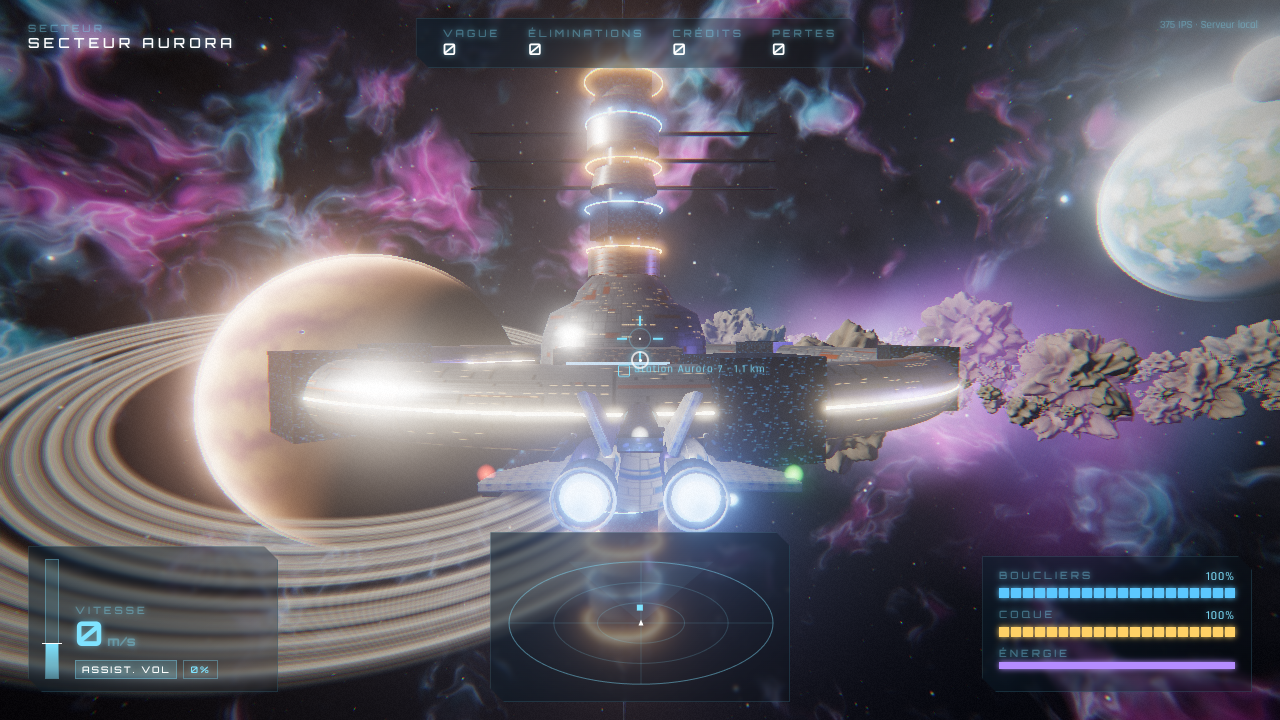
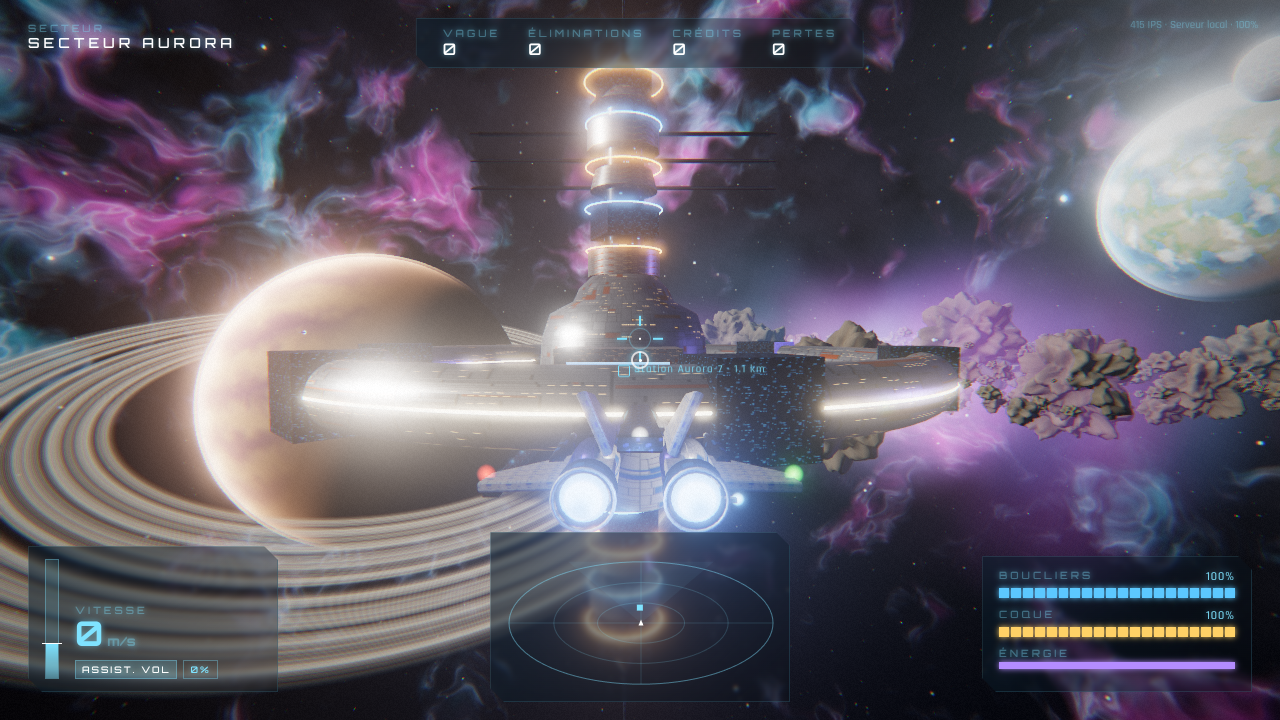
Optimisations de rendu et touches AZERTY
- Fusion des pièces statiques par matériau (vaisseaux, station) : 253 → 161
  appels de dessin
- Astéroïdes allégés : 1,76 M → 0,86 M triangles par image
- Antialiasing réel : la cible HDR du post-traitement est multi-échantillonnée
  (l'antialiasing du canvas ne s'appliquait pas avec l'EffectComposer)
- Résolution dynamique : baisse automatique sous 45 IPS, remonte au-dessus de 58
- HUD : le DOM n'est réécrit que lorsque son contenu change
- Menu : les touches affichées suivent la disposition du clavier (AZERTY)

Claude-Session: https://claude.ai/code/session_016XCWbfMdZ3mfa5DSJWimQo

diff --git a/src/client/Game.ts b/src/client/Game.ts
@@ -67,12 +67,18 @@ export class Game {
   running = false;
   private lastMe: InterpolatedShip | null = null;
   private damageFx = 0;
+  private maxPixelRatio: number;
+  private pixelRatio: number;
+  private perfTimer = 0;
+  private perfFrames = 0;
   /** Exposed for automated smoke tests. */
   readonly debug = { frames: 0, ships: 0, bolts: 0, events: 0, explosions: 0 };
 
   constructor(canvas: HTMLCanvasElement, private transport: Transport, private opts: GameOptions) {
-    this.renderer = new THREE.WebGLRenderer({ canvas, antialias: opts.quality === 'high', powerPreference: 'high-performance' });
-    this.renderer.setPixelRatio(Math.min(window.devicePixelRatio, opts.quality === 'high' ? 1.5 : 1));
+    this.renderer = new THREE.WebGLRenderer({ canvas, antialias: false, powerPreference: 'high-performance' });
+    this.maxPixelRatio = Math.min(window.devicePixelRatio, opts.quality === 'high' ? 1.5 : 1);
+    this.pixelRatio = this.maxPixelRatio;
+    this.renderer.setPixelRatio(this.pixelRatio);
     this.renderer.setSize(window.innerWidth, window.innerHeight, false);
     this.renderer.toneMapping = THREE.ACESFilmicToneMapping;
     this.renderer.toneMappingExposure = 1.05;
@@ -80,7 +86,7 @@ export class Game {
 
     this.cam = new ChaseCamera(window.innerWidth / window.innerHeight);
     this.scene.add(this.cam.camera);
-    this.post = new PostFX(this.renderer, this.scene, this.cam.camera);
+    this.post = new PostFX(this.renderer, this.scene, this.cam.camera, opts.quality === 'high' ? 4 : 0);
     this.input = new InputManager(canvas);
     this.scene.add(this.lasers.group, this.effects.group, this.dust.lines);
 
@@ -92,8 +98,9 @@ export class Game {
   private resize() {
     const w = window.innerWidth;
     const h = window.innerHeight;
+    this.renderer.setPixelRatio(this.pixelRatio);
     this.renderer.setSize(w, h, false);
-    this.post.setSize(w, h);
+    this.post.setSize(w, h, this.pixelRatio);
     this.cam.camera.aspect = w / h;
     this.cam.camera.updateProjectionMatrix();
     this.effects.setPixelScale(h * this.renderer.getPixelRatio(), this.cam.camera.fov);
@@ -274,13 +281,40 @@ export class Game {
         stationPos: this.zone.station.position,
         stationName: this.zone.station.name,
         fps: this.fps,
-        net: this.transport.label,
+        net: `${this.transport.label} · ${Math.round(this.pixelRatio * 100)}%`,
       },
       dt,
     );
     this.damageFx = Math.max(0, this.damageFx - dt * 2);
+    this.adaptResolution(dt);
     this.debug.ships = ships.size;
     this.post.render(this.time, this.damageFx);
+  }
+
+  /**
+   * Dynamic resolution: every 2 s, lower the render scale when the frame rate
+   * stays under 45 FPS and raise it again above 58 FPS.
+   */
+  private adaptResolution(dt: number) {
+    if (!this.running) return;
+    this.perfTimer += dt;
+    this.perfFrames++;
+    if (this.perfTimer < 2) return;
+    const fps = this.perfFrames / this.perfTimer;
+    this.perfTimer = 0;
+    this.perfFrames = 0;
+    let next = this.pixelRatio;
+    if (fps < 45) next = Math.max(0.6, this.pixelRatio * 0.85);
+    else if (fps > 58) next = Math.min(this.maxPixelRatio, this.pixelRatio * 1.1);
+    if (Math.abs(next - this.pixelRatio) > 0.02) {
+      this.pixelRatio = next;
+      this.resize();
+    }
+  }
+
+  /** Current render scale (for the HUD / diagnostics). */
+  get renderScale() {
+    return this.pixelRatio;
   }
 
   private handleEvent(e: SimEvent, time: number) {

diff --git a/src/client/hud/Hud.ts b/src/client/hud/Hud.ts
@@ -68,6 +68,14 @@ export class Hud {
   private hitTimer = 0;
   private damage = 0;
   private shieldFx = 0;
+  private cache = new Map<HTMLElement, string>();
+
+  /** Writes innerHTML only when it changed (avoids re-layout every frame). */
+  private html(el: HTMLElement, value: string) {
+    if (this.cache.get(el) === value) return;
+    this.cache.set(el, value);
+    el.innerHTML = value;
+  }
 
   constructor() {
     this.root = el('div', '', document.body) as HTMLDivElement;
@@ -200,12 +208,12 @@ export class Hud {
     const H = window.innerHeight;
     const pt = { x: 0, y: 0, front: true };
     const me = f.me;
-    this.fpsEl.textContent = `${f.fps.toFixed(0)} IPS · ${f.net}`;
-    this.topbar.innerHTML =
+    this.html(this.fpsEl, `${f.fps.toFixed(0)} IPS · ${f.net}`);
+    this.html(this.topbar,
       `<div><div class="label">Vague</div><div class="v">${f.wave}</div></div>` +
       `<div><div class="label">Éliminations</div><div class="v">${f.stats.kills}</div></div>` +
       `<div><div class="label">Crédits</div><div class="v">${f.stats.credits.toLocaleString('fr-FR')}</div></div>` +
-      `<div><div class="label">Pertes</div><div class="v">${f.stats.deaths}</div></div>`;
+      `<div><div class="label">Pertes</div><div class="v">${f.stats.deaths}</div></div>`);
 
     this.death.classList.toggle('show', !me);
     if (!me) {
@@ -254,10 +262,10 @@ export class Hud {
     const thr = (f.input.throttle + 0.4) / 1.4;
     this.throttleFill.style.height = `${(me.snap.boosting ? 1 : thr) * 100}%`;
     this.throttleBox.classList.toggle('boost', me.snap.boosting);
-    this.chips.innerHTML =
+    this.html(this.chips,
       `<span class="chip ${f.input.flightAssist ? 'on' : 'off'}">${f.input.flightAssist ? 'ASSIST. VOL' : 'NEWTONIEN'}</span>` +
       (me.snap.boosting ? '<span class="chip boost">BOOST</span>' : '') +
-      `<span class="chip">${(f.input.throttle * 100).toFixed(0)}%</span>`;
+      `<span class="chip">${(f.input.throttle * 100).toFixed(0)}%</span>`);
 
     // Status panel
     const sFrac = me.snap.shield / cls.shield;
@@ -323,9 +331,9 @@ export class Hud {
         this.bracket.classList.toggle('friendly', !hostile);
         this.bracket.style.width = this.bracket.style.height = `${size}px`;
         this.bracket.style.transform = `translate(${pt.x - size / 2}px, ${pt.y - size / 2}px)`;
-        this.bracketInfo.innerHTML =
+        this.html(this.bracketInfo,
           `<b>${hostile ? 'HOSTILE' : 'ALLIÉ'} · ${tcls.label.toUpperCase()}</b>${target.snap.name} — ${dist < 1000 ? dist.toFixed(0) + ' m' : (dist / 1000).toFixed(2) + ' km'}` +
-          `<div class="bars"><div class="bar s"><i style="transform:scaleX(${target.snap.shield / tcls.shield})"></i></div><div class="bar h"><i style="transform:scaleX(${target.snap.hull / tcls.hull})"></i></div></div>`;
+          `<div class="bars"><div class="bar s"><i style="transform:scaleX(${target.snap.shield / tcls.shield})"></i></div><div class="bar h"><i style="transform:scaleX(${target.snap.hull / tcls.hull})"></i></div></div>`);
       } else {
         // Edge arrow pointing toward the off-screen target.
         _w.copy(target.position).applyMatrix4(f.camera.matrixWorldInverse);

diff --git a/src/client/render/ShipModels.ts b/src/client/render/ShipModels.ts
@@ -1,5 +1,6 @@
 import * as THREE from 'three';
 import type { ShipClassId } from '../../shared/sim/types';
+import { mergeByMaterial } from './merge';
 import { makeHullTextures, makeRadialTexture } from './textures';
 
 export interface ShipModel {
@@ -15,6 +16,7 @@ export interface ShipModel {
 interface Paint {
   hull: THREE.MeshStandardMaterial;
   dark: THREE.MeshStandardMaterial;
+  darkDouble: THREE.MeshStandardMaterial;
   glass: THREE.MeshPhysicalMaterial;
   glow: THREE.MeshBasicMaterial;
 }
@@ -29,6 +31,7 @@ function paint(key: string, base: string, accent: string, glowColor: THREE.Color
   const p: Paint = {
     hull: new THREE.MeshStandardMaterial({ map: t.map, roughnessMap: t.roughnessMap, metalness: 0.35, roughness: 0.5, envMapIntensity: 1.4 }),
     dark: new THREE.MeshStandardMaterial({ map: d.map, roughnessMap: d.roughnessMap, metalness: 0.45, roughness: 0.55 }),
+    darkDouble: new THREE.MeshStandardMaterial({ map: d.map, roughnessMap: d.roughnessMap, metalness: 0.45, roughness: 0.55, side: THREE.DoubleSide }),
     glass: new THREE.MeshPhysicalMaterial({
       color: 0x0b1a26,
       metalness: 0.1,
@@ -89,9 +92,7 @@ function mirrored(mesh: THREE.Mesh) {
 
 function nozzle(p: Paint, radius: number, length: number, pos: THREE.Vector3) {
   const g = new THREE.Group();
-  const shell = new THREE.Mesh(new THREE.CylinderGeometry(radius * 1.05, radius * 1.25, length, 24, 1, true), p.dark);
-  shell.material = p.dark.clone();
-  (shell.material as THREE.MeshStandardMaterial).side = THREE.DoubleSide;
+  const shell = new THREE.Mesh(new THREE.CylinderGeometry(radius * 1.05, radius * 1.25, length, 24, 1, true), p.darkDouble);
   shell.rotation.x = Math.PI / 2;
   g.add(shell);
   const inner = new THREE.Mesh(new THREE.CircleGeometry(radius * 0.95, 24), p.glow);
@@ -307,7 +308,7 @@ function buildMarauder(): ShipModel {
   };
 }
 
-export function buildShipModel(classId: ShipClassId): ShipModel {
+function buildRaw(classId: ShipClassId): ShipModel {
   switch (classId) {
     case 'falcon':
       return buildFalcon('falcon');
@@ -318,4 +319,20 @@ export function buildShipModel(classId: ShipClassId): ShipModel {
     case 'marauder':
       return buildMarauder();
   }
+}
+
+const templates = new Map<ShipClassId, ShipModel>();
+
+/**
+ * Returns a ship model. Each class is built and merged (one draw call per
+ * material) once; every ship then shares the template's geometry.
+ */
+export function buildShipModel(classId: ShipClassId): ShipModel {
+  let t = templates.get(classId);
+  if (!t) {
+    t = buildRaw(classId);
+    mergeByMaterial(t.root);
+    templates.set(classId, t);
+  }
+  return { ...t, root: t.root.clone() };
 }

diff --git a/src/client/render/merge.ts b/src/client/render/merge.ts
@@ -1,0 +1,59 @@
+import * as THREE from 'three';
+import { mergeGeometries } from 'three/examples/jsm/utils/BufferGeometryUtils.js';
+
+const KEEP = ['position', 'normal', 'uv'];
+
+function flipWinding(geo: THREE.BufferGeometry) {
+  for (const name of KEEP) {
+    const attr = geo.getAttribute(name) as THREE.BufferAttribute | undefined;
+    if (!attr) continue;
+    const a = attr.array as Float32Array;
+    const s = attr.itemSize;
+    for (let t = 0; t < attr.count; t += 3) {
+      for (let k = 0; k < s; k++) {
+        const i1 = (t + 1) * s + k;
+        const i2 = (t + 2) * s + k;
+        const tmp = a[i1];
+        a[i1] = a[i2];
+        a[i2] = tmp;
+      }
+    }
+  }
+}
+
+/**
+ * Collapses every static mesh under `root` into one mesh per material.
+ * A procedural ship goes from ~40 draw calls to ~5. Sprites, instanced
+ * meshes and anything with userData.dynamic are left untouched.
+ */
+export function mergeByMaterial(root: THREE.Object3D) {
+  root.updateMatrixWorld(true);
+  const inv = new THREE.Matrix4().copy(root.matrixWorld).invert();
+  const buckets = new Map<THREE.Material, THREE.BufferGeometry[]>();
+  const victims: THREE.Mesh[] = [];
+  root.traverse((o) => {
+    if (o === root || !(o instanceof THREE.Mesh) || o instanceof THREE.InstancedMesh) return;
+    if (Array.isArray(o.material) || o.userData.dynamic) return;
+    for (let p = o.parent; p && p !== root; p = p.parent) if (p.userData.dynamic) return;
+    const m = new THREE.Matrix4().multiplyMatrices(inv, o.matrixWorld);
+    let g = o.geometry.index ? o.geometry.toNonIndexed() : o.geometry.clone();
+    for (const name of Object.keys(g.attributes)) if (!KEEP.includes(name)) g.deleteAttribute(name);
+    if (!g.getAttribute('uv')) {
+      g.setAttribute('uv', new THREE.Float32BufferAttribute(new Float32Array(g.getAttribute('position').count * 2), 2));
+    }
+    if (!g.getAttribute('normal')) g.computeVertexNormals();
+    g.clearGroups();
+    g.applyMatrix4(m);
+    if (m.determinant() < 0) flipWinding(g);
+    const list = buckets.get(o.material) ?? [];
+    list.push(g);
+    buckets.set(o.material, list);
+    victims.push(o);
+  });
+  for (const v of victims) v.parent?.remove(v);
+  for (const [mat, geos] of buckets) {
+    const merged = mergeGeometries(geos, false);
+    for (const g of geos) g.dispose();
+    if (merged) root.add(new THREE.Mesh(merged, mat));
+  }
+}

diff --git a/index.html b/index.html
@@ -18,19 +18,19 @@
         <button id="launch">DÉCOLLER</button>
         <div class="controls">
           <div><kbd>Souris</kbd></div><span>Piloter (joystick virtuel)</span>
-          <div><kbd>Clic G</kbd><kbd>F</kbd></div><span>Lasers</span>
-          <div><kbd>W</kbd><kbd>S</kbd></div><span>Poussée + / −</span>
+          <div><kbd>Clic G</kbd><kbd data-code="KeyF">F</kbd></div><span>Lasers</span>
+          <div><kbd data-code="KeyW">W</kbd><kbd data-code="KeyS">S</kbd></div><span>Poussée + / −</span>
           <div><kbd>Molette</kbd></div><span>Poussée</span>
-          <div><kbd>A</kbd><kbd>D</kbd></div><span>Translation latérale</span>
-          <div><kbd>Espace</kbd><kbd>C</kbd></div><span>Translation verticale</span>
-          <div><kbd>Q</kbd><kbd>E</kbd></div><span>Roulis</span>
+          <div><kbd data-code="KeyA">A</kbd><kbd data-code="KeyD">D</kbd></div><span>Translation latérale</span>
+          <div><kbd>Espace</kbd><kbd data-code="KeyC">C</kbd></div><span>Translation verticale</span>
+          <div><kbd data-code="KeyQ">Q</kbd><kbd data-code="KeyE">E</kbd></div><span>Roulis</span>
           <div><kbd>Maj</kbd></div><span>Boost</span>
-          <div><kbd>X</kbd></div><span>Couper les gaz</span>
-          <div><kbd>Z</kbd></div><span>Assistance de vol on/off</span>
-          <div><kbd>T</kbd></div><span>Cible suivante</span>
-          <div><kbd>V</kbd></div><span>Caméra</span>
+          <div><kbd data-code="KeyX">X</kbd></div><span>Couper les gaz</span>
+          <div><kbd data-code="KeyZ">Z</kbd></div><span>Assistance de vol on/off</span>
+          <div><kbd data-code="KeyT">T</kbd></div><span>Cible suivante</span>
+          <div><kbd data-code="KeyV">V</kbd></div><span>Caméra</span>
           <div><kbd>Flèches</kbd></div><span>Tangage / lacet</span>
-          <div><kbd>M</kbd></div><span>Son</span>
+          <div><kbd data-code="KeyM">M</kbd></div><span>Son</span>
         </div>
         <div class="note">Défendez la station Aurora-7 contre les vagues de pirates. Échap pour libérer la souris.</div>
       </div>

diff --git a/src/client/render/PostFX.ts b/src/client/render/PostFX.ts
@@ -43,9 +43,15 @@ export class PostFX {
   private bloom: UnrealBloomPass;
   private final: ShaderPass;
 
-  constructor(renderer: THREE.WebGLRenderer, scene: THREE.Scene, camera: THREE.Camera) {
+  constructor(renderer: THREE.WebGLRenderer, scene: THREE.Scene, camera: THREE.Camera, msaa: number) {
     const size = renderer.getSize(new THREE.Vector2());
-    this.composer = new EffectComposer(renderer);
+    // The composer renders off-screen, so the canvas' own antialiasing does not
+    // apply: use a multisampled HDR target instead.
+    const target = new THREE.WebGLRenderTarget(size.x * renderer.getPixelRatio(), size.y * renderer.getPixelRatio(), {
+      type: THREE.HalfFloatType,
+      samples: msaa,
+    });
+    this.composer = new EffectComposer(renderer, target);
     this.composer.addPass(new RenderPass(scene, camera));
     this.bloom = new UnrealBloomPass(new THREE.Vector2(size.x / 2, size.y / 2), 0.6, 0.5, 0.95);
     this.composer.addPass(this.bloom);
@@ -54,7 +60,8 @@ export class PostFX {
     this.composer.addPass(this.final);
   }
 
-  setSize(w: number, h: number) {
+  setSize(w: number, h: number, pixelRatio: number) {
+    this.composer.setPixelRatio(pixelRatio);
     this.composer.setSize(w, h);
     this.bloom.resolution.set(w / 2, h / 2);
   }

diff --git a/src/client/render/Station.ts b/src/client/render/Station.ts
@@ -1,6 +1,7 @@
 import * as THREE from 'three';
 import { mulberry32 } from '../../shared/rng';
 import type { StationDef } from '../../shared/sim/zone';
+import { mergeByMaterial } from './merge';
 import { makeHullTextures, makeRadialTexture, makeSolarTexture } from './textures';
 
 interface Blinker {
@@ -186,6 +187,7 @@ export class Station {
       t.position.z = 8;
       t.scale.setScalar(9);
       g.add(t);
+      g.userData.dynamic = true;
       this.group.add(g);
       this.shuttles.push({
         mesh: g,
@@ -196,6 +198,10 @@ export class Station {
       });
     }
 
+    // Hundreds of parts → a handful of draw calls (the ring rotates, so it is merged on its own).
+    this.ring.userData.dynamic = true;
+    mergeByMaterial(this.group);
+    mergeByMaterial(this.ring);
     this.group.position.copy(def.position);
   }
 

diff --git a/src/main.ts b/src/main.ts
@@ -43,6 +43,18 @@ function begin() {
 }
 
 launch.addEventListener('click', begin);
+
+// Controls use physical key positions (KeyboardEvent.code), so on AZERTY the
+// "W/A" keys are Z/Q. Show the labels of the player's actual layout.
+type LayoutNav = Navigator & { keyboard?: { getLayoutMap?: () => Promise<Map<string, string>> } };
+(navigator as LayoutNav).keyboard?.getLayoutMap?.()
+  .then((map) => {
+    document.querySelectorAll<HTMLElement>('kbd[data-code]').forEach((k) => {
+      const label = map.get(k.dataset.code!);
+      if (label) k.textContent = label.toUpperCase();
+    });
+  })
+  .catch(() => {});
 launch.textContent = 'DÉCOLLER';
 
 document.addEventListener('pointerlockchange', () => {

diff --git a/src/client/render/Asteroids.ts b/src/client/render/Asteroids.ts
@@ -76,7 +76,7 @@ export class Asteroids {
       for (let v = 0; v < variants; v++) {
         const list = defs.filter((d) => d.variant === v && d.radius >= 140 === big);
         if (!list.length) continue;
-        const geo = makeRockGeometry(100 + v * 17 + (big ? 7 : 0), big ? 26 : 10, big ? 6 : 3);
+        const geo = makeRockGeometry(100 + v * 17 + (big ? 7 : 0), big ? 18 : 6, big ? 6 : 3);
         const mesh = new THREE.InstancedMesh(geo, mat, list.length);
         mesh.frustumCulled = false;
         this.sets.push({ mesh, defs: list });

diff --git a/README.md b/README.md
@@ -30,6 +30,8 @@ Options d'URL : `?q=low` (qualité réduite pour les petites configurations), `?
 
 ## Commandes
 
+Les touches correspondent à des positions physiques : sur un clavier AZERTY, `W/A/S/D` se jouent avec `Z/Q/S/D`, et `Q/E` avec `A/E`. Le menu du jeu affiche automatiquement les bonnes lettres dans Chrome et Edge.
+
 | Touche | Action |
 | --- | --- |
 | Souris | Piloter (joystick virtuel) |
